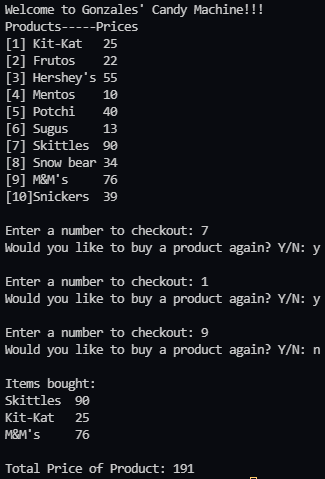
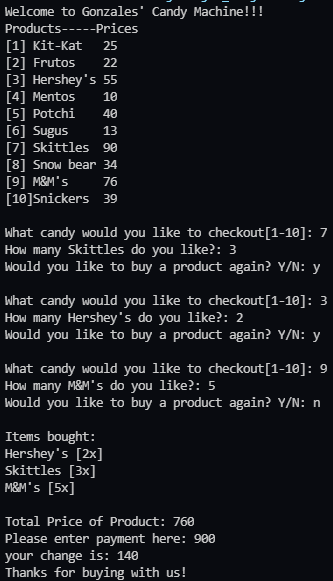
added documentation and updated code

diff --git a/Activity_2/CandyMachine.java b/Activity_2/CandyMachine.java
@@ -1,3 +1,6 @@
+/**
+ * @author Gonzales, Lois Jerson A.
+ */
 package Programming_2.Activity_2;
 
 import java.util.ArrayList;
@@ -12,8 +15,6 @@ public class CandyMachine {
         this.productName = productName;
         this.productPrice = productPrice;
     }
-
-    ArrayList<CandyMachine> list = new ArrayList<>();
 
     public String getProductName() {
         return this.productName;
@@ -37,6 +38,7 @@ public class CandyMachine {
         return "[" + this.productName + ", " + this.productPrice + "]";
     }
 
+    // This method is to show the list candies available in the shop
     public static void showMenu() {
         System.out.println("Welcome to Gonzales' Candy Machine!!!"); 
             System.out.println("Products-----Prices");
@@ -52,58 +54,94 @@ public class CandyMachine {
             System.out.println("[10]Snickers  39");
             System.out.println();
     }
-
+    /**
+     * This method ask user to pick a candy of choice and add is to the ArrayList
+     * @param list ArrayList of candies
+     * @param input to ask input from the user
+     */
     public static void buyProduct(ArrayList<CandyMachine> list, Scanner input) {
         int choice;
-        boolean run = true;
         String buy;
+        int numOfCandy = 0;
+        String nameOfCandy = "";
         do {
-            System.out.print("Enter a number to checkout: ");
+            System.out.print("What candy would you like to checkout[1-10]: ");
             choice = input.nextInt();
 
-            switch(choice) {
-                case 1:
-                    list.add(new CandyMachine("Kit-Kat", 25));
-                break;
+            // this control statement is used in the next control statement
+            if(choice == 1) {
+                nameOfCandy = "Kit-Kat";
+            } else if (choice == 2) {
+                nameOfCandy = "Frutos";
+            } else if (choice == 3) {
+                nameOfCandy = "Hershey's";
+            } else if (choice == 4) {
+                nameOfCandy = "Mentos";
+            } else if (choice == 5) {
+                nameOfCandy = "Potchi";
+            } else if (choice == 6) {
+                nameOfCandy = "Sugus";
+            } else if (choice == 7) {
+                nameOfCandy = "Skittles";
+            } else if (choice == 8) {
+                nameOfCandy = "Snow bear";
+            } else if (choice == 9) {
+                nameOfCandy = "M&M's";
+            } else if (choice == 10) {
+                nameOfCandy = "Snickers";
+            }
+            
+            // asks user of the quantity of the candy
+            if(choice < 10) {
+                System.out.print("How many " + nameOfCandy + " do you like?: ");
+                numOfCandy = input.nextInt();
+            } else {
+                System.out.println("Invalid input!");
+            }
 
-                case 2:
-                    list.add(new CandyMachine("Frutos", 22));
-                break;
+            // this whole code block adds selected candy in the ArrayList 
+            for(int i = 0; i < numOfCandy; i++) {
+                switch(choice) {
+                    case 1:
+                        list.add(new CandyMachine("Kit-Kat", 25));
+                    break;
 
-                case 3:
-                    list.add(new CandyMachine("Hershey's", 55));
-                break;
+                    case 2:
+                        list.add(new CandyMachine("Frutos", 22));
+                    break;
 
-                case 4:
-                    list.add(new CandyMachine("Mentos", 10));
-                break;
+                    case 3:
+                        list.add(new CandyMachine("Hershey's", 55));
+                    break;
 
-                case 5:
-                    list.add(new CandyMachine("Potchi", 40));
-                break;
+                    case 4:
+                        list.add(new CandyMachine("Mentos", 10));
+                    break;
 
-                case 6:
-                    list.add(new CandyMachine("Sugus", 13));
-                break;
+                    case 5:
+                        list.add(new CandyMachine("Potchi", 40));
+                    break;
 
-                case 7:
-                    list.add(new CandyMachine("Skittles", 90));
-                break;
+                    case 6:
+                        list.add(new CandyMachine("Sugus", 13));
+                    break;
 
-                case 8:
-                    list.add(new CandyMachine("Snow bear", 34));
-                break;
+                    case 7:
+                        list.add(new CandyMachine("Skittles", 90));
+                    break;
 
-                case 9:
-                    list.add(new CandyMachine("M&M's", 76));
-                break;
+                    case 8:
+                        list.add(new CandyMachine("Snow bear", 34));
+                    break;
 
-                case 10:
-                    list.add(new CandyMachine("Snickers", 39));
-                break;
+                    case 9:
+                        list.add(new CandyMachine("M&M's", 76));
+                    break;
 
-                default:
-                    System.out.println("Invalid Input");
+                    case 10:
+                        list.add(new CandyMachine("Snickers", 39));
+                    break;
+                }
             }
             System.out.print("Would you like to buy a product again? Y/N: ");
             buy = input.next();
@@ -112,6 +150,11 @@ public class CandyMachine {
         
     }
 
+    /**
+     * This method is used to calculate the total price of candies in the list
+     * @param list hold the list of candies and its price
+     * @return this will return the total price of the candies in the ArrayList
+     */
     public static int productTotal(ArrayList<CandyMachine> list) {
         int totalPrice = 0;
         for(int i = 0; i < list.size(); i++) {
@@ -120,33 +163,46 @@ public class CandyMachine {
         return totalPrice;
     }
 
+    /**
+     * This method will show the total items that the user has inputted in the list
+     * @param list hold the list of candies and its price
+     */
     public static void showBoughtProducts(ArrayList<CandyMachine> list) {
+        int count = 0;
+        String[] candyNames = {"Kit-Kat", "Frutos", "Hershey's", "Mentos", "Potchi",
+                                "Sugus", "Skittles", "Snow bear", "M&M's", "Snickers"};
+
         System.out.println("Items bought: ");
-        for(int i = 0; i < list.size(); i++) {
-            // System.out.println(list.get(i).getProductName() + " " + list.get(i).getProductPrice());
-            if(list.get(i).getProductName() == "Kit-Kat") {
-                System.out.println("Kit-Kat   25");
-            } else if(list.get(i).getProductName() == "Frutos") {
-                System.out.println("Frutos    22");
-            } else if(list.get(i).getProductName() == "Hershey's") {
-                System.out.println("Hershey's 55");
-            } else if(list.get(i).getProductName() == "Mentos") {
-                System.out.println("Mentos    10");
-            } else if(list.get(i).getProductName() == "Potchi") {
-                System.out.println("Potchi    40");
-            } else if(list.get(i).getProductName() == "Sugus") {
-                System.out.println("Sugus     13");
-            } else if(list.get(i).getProductName() == "Skittles") {
-                System.out.println("Skittles  90");
-            } else if(list.get(i).getProductName() == "Snow bear") {
-                System.out.println("Snow bear 34");
-            } else if(list.get(i).getProductName() == "M&M's") {
-                System.out.println("M&M's     76");
-            } else if(list.get(i).getProductName() == "Snickers") {
-                System.out.println("Snickers  39");
+
+        // this for loop will calculate how many the quantity per candy
+        for(int i = 0; i < candyNames.length; i++) {
+            for(int j = 0; j < list.size(); j++) {
+                if(list.get(j).getProductName().equals(candyNames[i])) 
+                    count++;
             }
+            if(count > 0) 
+                System.out.println(candyNames[i] + " [" + count + "x]");
+
+            count = 0;
         }
         System.out.println();
     }
 
+    /**
+     * This method is used to asked for payment from the user
+     * @param input this variable is used for input
+     */
+    public static void acceptPayment(ArrayList<CandyMachine> list, Scanner input) {
+        int money = 0;
+        do {
+            System.out.print("Please enter payment here: ");
+            money  = input.nextInt();
+            if (money < productTotal(list)) {
+                System.out.println("Incomplete payment you still have " + (productTotal(list) - money) + " to pay");
+            } else if (money > productTotal(list)) {
+                System.out.println("your change is: " + (money - productTotal(list)));
+                System.out.println("Thanks for buying with us!");
+            }
+        } while(money < productTotal(list));
+    }
 }

diff --git a/Activity_2/Main.java b/Activity_2/Main.java
@@ -1,3 +1,6 @@
+/**
+ * @author Gonzales, Lois Jerson A.
+ */
 package Programming_2.Activity_2;
 
 import java.util.ArrayList;
@@ -10,11 +13,12 @@ public class Main {
         
         ArrayList<CandyMachine> candies  = new ArrayList<>();
 
+        // invoked all methods from the CandyMachine Class
         CandyMachine.showMenu();
         CandyMachine.buyProduct(candies, input);
         CandyMachine.showBoughtProducts(candies);
         System.out.println("Total Price of Product: " + CandyMachine.productTotal(candies));
-
+        CandyMachine.acceptPayment(candies, input);
     }
     
 }
